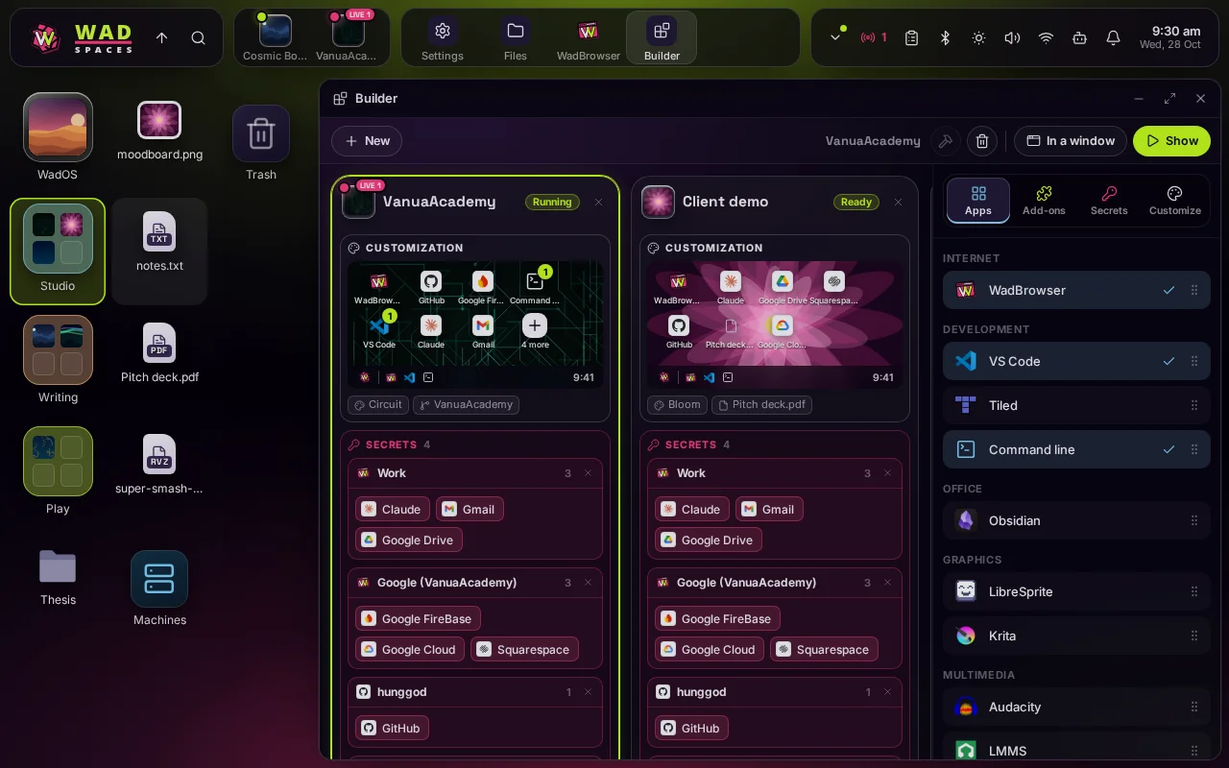
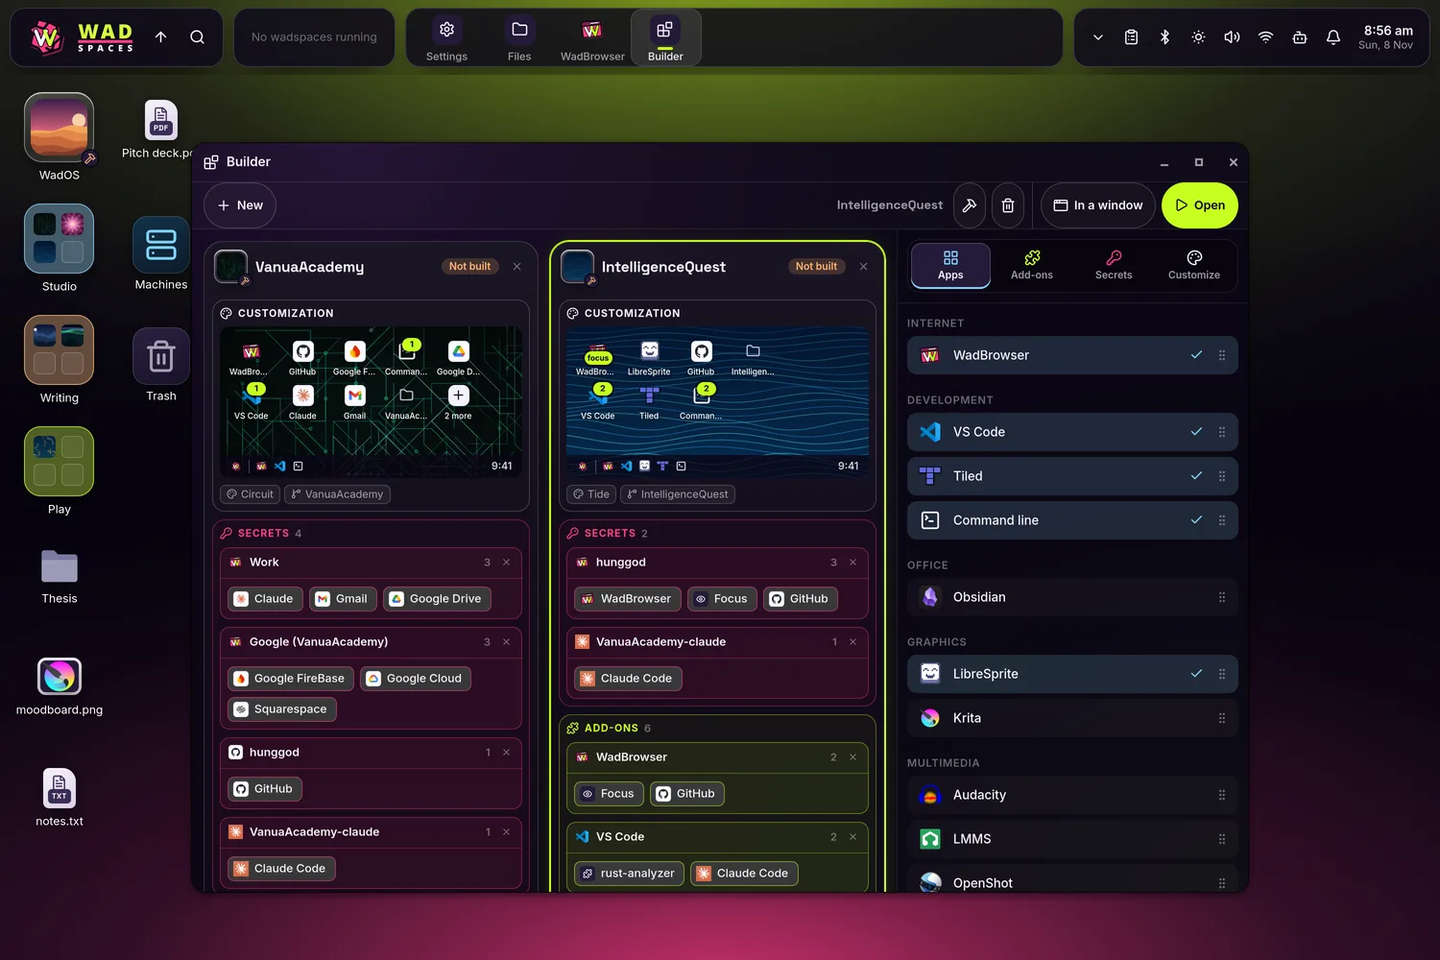
Phase 12: the site, as WadSpaces is now
The landing page's copy follows what's built through phase 11: the
Builder's Apps, Add-ons, Secrets and Customize (no more templates and
layers), Super+Tab and Alt+Space, a desktop on every display, focus,
peers and Taildrive, updates, agents in their own wadspace, private and
public streams at <machine>.wadspaces.com/ws-…/, and Play together.
WadNotes, Super+1…9, the Drives folder and handing devices to a
wadspace (not built) are gone. The Android app is said to be coming.

Screenshots are the real shell's (apps/wados-shell/dev/try.sh, on the
sample library): the launcher, the desktop and the Builder.

diff --git a/site/src/Landing.tsx b/site/src/Landing.tsx
@@ -1,21 +1,27 @@
-// wadspaces.com: what WadSpaces is. No sign-in here; streams have links of
-// their own (https://ws-<id>.wadspaces.com, served by the machine streaming
-// them through its Cloudflare tunnel, not by this site).
+// wadspaces.com: what WadSpaces is. No sign-in here. Streams have links of
+// their own (https://<machine>.wadspaces.com/ws-<guid>/), served by the
+// machine streaming them through its Cloudflare tunnel, not by this site.
 import { motion } from "motion/react";
 import {
   Bluetooth,
+  Bot,
+  Eye,
   FolderGit2,
+  Gamepad2,
   Globe,
-  HardDrive,
-  KeyRound,
   Keyboard,
-  Layers,
   Link2,
+  ListChecks,
   MonitorSmartphone,
-  NotebookPen,
+  Monitor,
+  Network,
+  Package,
   Radio,
+  RotateCcw,
+  ShieldCheck,
+  Smartphone,
   Timer,
-  Usb,
+  Users,
   WandSparkles,
   type LucideIcon,
 } from "lucide-react";
@@ -25,7 +31,7 @@ import { Logo, LogoMark } from "./components/Logo";
 function Shot({ name, alt }: { name: string; alt: string }) {
   return (
     <div className="overflow-hidden rounded-2xl shadow-deep ring-1 ring-line-strong">
-      <img src={`/shots/${name}.webp`} alt={alt} className="block w-full" loading="lazy" width={1280} height={800} />
+      <img src={`/shots/${name}.webp`} alt={alt} className="block w-full" loading="lazy" width={1500} height={1000} />
     </div>
   );
 }
@@ -44,6 +50,16 @@ function Point({ icon: Icon, title, children }: { icon: LucideIcon; title: strin
   );
 }
 
+function Card({ icon: Icon, title, children }: { icon: LucideIcon; title: string; children: React.ReactNode }) {
+  return (
+    <div className="rounded-3xl bg-surface p-6 ring-1 ring-line">
+      <Icon className="size-5 text-accent" />
+      <h3 className="mt-3 font-display text-lg font-semibold">{title}</h3>
+      <p className="mt-2 text-sm text-muted">{children}</p>
+    </div>
+  );
+}
+
 function Section({ id, eyebrow, title, lead, children }: { id: string; eyebrow: string; title: string; lead: string; children: React.ReactNode }) {
   return (
     <section id={id} aria-labelledby={`${id}-title`} className="mx-auto w-full max-w-6xl px-4 py-16 sm:px-6 sm:py-24">
@@ -57,26 +73,31 @@ function Section({ id, eyebrow, title, lead, children }: { id: string; eyebrow: 
   );
 }
 
-/** The three layers a wadspace is made of, in the Builder's colours. */
-const LAYERS = [
+/** What a wadspace is made of: the Builder's four tabs, in its colours. */
+const PARTS = [
   {
-    name: "Template",
-    color: "var(--layer-template)",
-    text: "Its apps: VS Code, Krita, Obsidian, Steam, a browser for each web app. One template can build on another.",
+    name: "Apps",
+    color: "var(--part-app)",
+    text: "VS Code, Krita, Obsidian, Steam, Dolphin and more, and WadBrowser for your web apps.",
   },
   {
-    name: "Extensions",
-    color: "var(--layer-extensions)",
-    text: "What it adds: tools, VS Code extensions, web apps, and what opens when it starts.",
+    name: "Add-ons",
+    color: "var(--part-ext)",
+    text: "What extends an app: VS Code extensions, tools like Rust, Python or Node, and Claude Code.",
   },
   {
-    name: "Customization",
-    color: "var(--layer-customization)",
-    text: "What makes it yours: its name, background, projects and keys. It's handed over when it starts, so it never needs building.",
+    name: "Secrets",
+    color: "var(--part-key)",
+    text: "Your sign-ins, kept as keys. Sign in to GitHub or Gmail once, and every wadspace with that key is signed in.",
+  },
+  {
+    name: "Customize",
+    color: "var(--part-look)",
+    text: "Its name, tag, background and projects. Changing them never needs a rebuild.",
   },
 ];
 
-/** Apps a template can have (the Builder's catalog has more). */
+/** Apps a wadspace can have (the Builder's catalog has more). */
 const APPS = [
   ["vscode", "VS Code"],
   ["obsidian", "Obsidian"],
@@ -91,25 +112,25 @@ const APPS = [
   ["dolphin", "Dolphin"],
 ];
 
-/** What a stream's link looks like, made up (nothing here is a real one). */
+/** What a public stream's share looks like, made up (nothing here is a real one). */
 function StreamCard() {
   return (
     <div className="ws-glass rounded-3xl p-5 shadow-deep ring-1 ring-line-strong sm:p-6">
       <div className="flex items-center gap-2 text-sm text-muted">
         <span className="size-2 rounded-full bg-accent shadow-glow" />
-        Streaming: 1 watching
+        Public link · 1 watching
       </div>
       <div className="mt-4 space-y-2 font-mono text-sm">
         <div className="flex items-center gap-3 rounded-xl bg-surface-2 px-3 py-2.5 ring-1 ring-line">
           <Link2 className="size-4 shrink-0 text-muted" />
-          <span className="truncate">https://ws-…….wadspaces.com</span>
+          <span className="truncate">https://studio.wadspaces.com/ws-……/</span>
         </div>
         <div className="flex items-center gap-3 rounded-xl bg-surface-2 px-3 py-2.5 ring-1 ring-line">
-          <KeyRound className="size-4 shrink-0 text-muted" />
-          <span className="truncate">a username and a password</span>
+          <Users className="size-4 shrink-0 text-muted" />
+          <span className="truncate">a user and a password</span>
         </div>
       </div>
-      <p className="mt-4 text-xs text-faint">A new link and login each time. It ends when nobody's watching.</p>
+      <p className="mt-4 text-xs text-faint">A new link each time, with a QR code. It ends when nobody's watching.</p>
     </div>
   );
 }
@@ -142,6 +163,9 @@ export default function Landing() {
           <a href="#machine" className="hidden rounded-lg px-3 py-2 text-muted hover:text-fg sm:block">
             The machine
           </a>
+          <a href="#agents" className="hidden rounded-lg px-3 py-2 text-muted hover:text-fg sm:block">
+            Agents
+          </a>
           <a href="#streams" className="hidden rounded-lg px-3 py-2 text-muted hover:text-fg sm:block">
             Streams
           </a>
@@ -157,7 +181,7 @@ export default function Landing() {
             </h1>
             <p className="mx-auto mt-5 max-w-2xl text-base text-muted sm:text-lg">
               WadSpaces is a computer that boots into desktops you design: a wadspace for each thing you do, with its own apps, files and
-              sign-ins. Build them from layers, run them on your own hardware, and stream one to any browser when you're away from it.
+              sign-ins. Run them on your own machines, switch between them in a keystroke, and stream one to any browser.
             </p>
             <div className="mt-8 flex flex-wrap items-center justify-center gap-3">
               <a href="#wadspaces" className="inline-flex h-11 items-center gap-2 rounded-xl bg-accent px-5 text-sm font-semibold text-accent-fg shadow-glow">
@@ -169,7 +193,7 @@ export default function Landing() {
             </div>
           </motion.div>
           <div className="mx-auto mt-14 max-w-5xl">
-            <Shot name="launcher" alt="The launcher: your wadspaces as cards, what's running first, the bar along the bottom" />
+            <Shot name="launcher" alt="The launcher: wadspaces as cards in tabs, with the bar along the bottom" />
           </div>
         </section>
 
@@ -177,34 +201,34 @@ export default function Landing() {
           id="wadspaces"
           eyebrow="Wadspaces"
           title="A desktop for each thing you do."
-          lead="A wadspace is a whole desktop made of layers. Shared layers are built once and reused, so a new wadspace on an old template is ready in seconds."
+          lead="A wadspace is a whole desktop with its own apps, add-ons, sign-ins and look. Design it in the Builder, and your machine builds it from ready-made packages, so a new one is ready in minutes."
         >
-          <div className="grid gap-4 md:grid-cols-3">
-            {LAYERS.map((l) => (
-              <div key={l.name} className="rounded-3xl bg-surface p-6 ring-1 ring-line">
+          <div className="grid gap-4 sm:grid-cols-2 lg:grid-cols-4">
+            {PARTS.map((p) => (
+              <div key={p.name} className="rounded-3xl bg-surface p-6 ring-1 ring-line">
                 <div className="flex items-center gap-2.5">
-                  <span className="size-3 rounded-full" style={{ background: l.color }} />
-                  <h3 className="font-display text-lg font-semibold">{l.name}</h3>
+                  <span className="size-3 rounded-full" style={{ background: p.color }} />
+                  <h3 className="font-display text-lg font-semibold">{p.name}</h3>
                 </div>
-                <p className="mt-3 text-sm text-muted">{l.text}</p>
+                <p className="mt-3 text-sm text-muted">{p.text}</p>
               </div>
             ))}
           </div>
           <div className="mt-10 grid items-center gap-10 lg:grid-cols-[1fr_1.3fr]">
             <div className="space-y-6">
               <Point icon={WandSparkles} title="Design it in the Builder">
-                Stack a template, Extensions and a Customization, and see the desktop you'll get before it's built.
+                Each wadspace is a stack: drag an app, a key or a whole section from one to another, and see its desktop before it's built.
               </Point>
-              <Point icon={Layers} title="Built on the machine">
-                Each layer is its own image, built on the machine where it runs, and shared by every wadspace on it.
+              <Point icon={Package} title="Built from shared packages">
+                Apps and tools come ready-made and are shared by every wadspace on the machine, so they download once.
               </Point>
-              <Point icon={KeyRound} title="Sign in once">
-                Saved sign-ins (GitHub, VS Code, your web apps) are shared by every wadspace that uses them.
+              <Point icon={FolderGit2} title="Your projects come along">
+                A GitHub repository is cloned in, a folder is opened in place, and a file is copied. Another of your machines' folders works too.
               </Point>
             </div>
-            <Shot name="builder" alt="The Builder: each wadspace a stack of its customization, secrets, add-ons and apps" />
+            <Shot name="builder" alt="The Builder: two wadspaces as stacks of their customization, secrets, add-ons and apps, with the apps beside them" />
           </div>
-          <ul className="mt-12 flex flex-wrap items-center gap-3" aria-label="Some of the apps a template can have">
+          <ul className="mt-12 flex flex-wrap items-center gap-3" aria-label="Some of the apps a wadspace can have">
             {APPS.map(([id, name]) => (
               <li key={id} className="flex items-center gap-2 rounded-full bg-surface py-1.5 pl-1.5 pr-3.5 text-sm ring-1 ring-line">
                 <img src={`/apps/${id}/icon.png`} alt="" className="size-6 rounded-md" loading="lazy" />
@@ -222,50 +246,54 @@ export default function Landing() {
           id="machine"
           eyebrow="The machine"
           title="It boots straight into your wadspaces."
-          lead="A WadSpaces machine is a laptop or desktop running the WadSpaces OS. Open several wadspaces at once and switch between them like apps."
+          lead="WadOS is the system underneath: installed from a USB stick onto an encrypted disk, and kept up to date as one image. Open several wadspaces at once, and move between them like apps."
         >
           <div className="grid items-center gap-10 lg:grid-cols-[1.3fr_1fr]">
-            <Shot name="desktop" alt="The desktop: wadspaces as glass tiles, a folder per tag, and the bar along the top" />
+            <Shot name="desktop" alt="The desktop: wadspaces and files as icons, a folder per tag, and the bar along the top" />
             <div className="space-y-6">
-              <Point icon={Keyboard} title="Super+Tab between them">
-                Every wadspace runs full screen. Super+Tab and Super+1…9 switch, and the bar above has Wi-Fi, sound and power.
+              <Point icon={Keyboard} title="Super+Tab and Alt+Space">
+                Super+Tab switches between what's running. Alt+Space finds any wadspace or app by name.
+              </Point>
+              <Point icon={Monitor} title="Every screen a desktop">
+                Scroll down from your wadspaces to the desktop. Each display has one of its own, and a wadspace can go full screen on any of them.
               </Point>
               <Point icon={Timer} title="Focus mode">
-                Pick what you're working on and for how long. Until the time's up, only those can come on screen.
-              </Point>
-              <Point icon={NotebookPen} title="WadNotes">
-                Notes, tasks and reminders for each wadspace, and a calendar they all share.
+                Pick a wadspace and how long. Until the time's up, nothing else can come on screen.
               </Point>
               <Point icon={Globe} title="WadBrowser">
-                Its own browser, where each web app gets a window of its own.
+                Its own browser, with ads and trackers blocked. Any page can become an app with a window of its own.
               </Point>
             </div>
           </div>
           <div className="mt-14 grid gap-4 md:grid-cols-3">
-            <div className="rounded-3xl bg-surface p-6 ring-1 ring-line">
-              <FolderGit2 className="size-5 text-accent" />
-              <h3 className="mt-3 font-display text-lg font-semibold">Your projects come along</h3>
-              <p className="mt-2 text-sm text-muted">
-                GitHub repositories are cloned into each wadspace that uses them. Folders on the machine can be copied in, or mounted.
-              </p>
-            </div>
-            <div className="rounded-3xl bg-surface p-6 ring-1 ring-line">
-              <Usb className="size-5 text-accent" />
-              <h3 className="mt-3 font-display text-lg font-semibold">Devices go where they're needed</h3>
-              <p className="mt-2 text-sm text-muted">
-                Plug in a gamepad, webcam or security key and hand it to a wadspace. It remembers next time.
-              </p>
-            </div>
-            <div className="rounded-3xl bg-surface p-6 ring-1 ring-line">
-              <div className="flex gap-2 text-accent">
-                <HardDrive className="size-5" />
-                <Bluetooth className="size-5" />
-              </div>
-              <h3 className="mt-3 font-display text-lg font-semibold">Drives and Bluetooth</h3>
-              <p className="mt-2 text-sm text-muted">
-                USB drives show up in a wadspace's Drives folder and eject safely. Headphones and pads pair from the bar.
-              </p>
-            </div>
+            <Card icon={Network} title="Your machines, together">
+              Machines on your tailnet find each other. Browse another's files, copy its wadspaces over, or stream one from it.
+            </Card>
+            <Card icon={RotateCcw} title="Updates you can undo">
+              WadOS downloads an update in the background. Restart into it when you're ready, or go back to the one before.
+            </Card>
+            <Card icon={Bluetooth} title="Everything in the bar">
+              Wi-Fi, Bluetooth, sound and brightness are a click away, with your notifications and what's running.
+            </Card>
+          </div>
+        </Section>
+
+        <Section
+          id="agents"
+          eyebrow="Agents"
+          title="Agents with a wadspace of their own."
+          lead="Give Claude Code a job in a wadspace. It works there on your project, not on your machine, and you watch what it builds as it goes."
+        >
+          <div className="grid gap-4 md:grid-cols-3">
+            <Card icon={Bot} title="Runs where your project is">
+              The agent works inside the wadspace, with its apps and keys. Your machine and your other wadspaces are out of its reach.
+            </Card>
+            <Card icon={Eye} title="A sandbox to try it in">
+              When it has something to show, it opens a throwaway wadspace beside its checklist, so you can try the build before you trust it.
+            </Card>
+            <Card icon={ListChecks} title="Nothing ships by itself">
+              It asks before it pushes or opens a pull request. The Agents app shows every job, what it's doing, and what's waiting for you.
+            </Card>
           </div>
         </Section>
 
@@ -273,18 +301,21 @@ export default function Landing() {
           id="streams"
           eyebrow="Streams"
           title="Stream a wadspace to any browser."
-          lead="Away from the machine? Stream a wadspace to a phone, a laptop or a friend's screen. The machine needs no open port: streams go out through a secure tunnel."
+          lead="Away from the machine? Stream a wadspace to a phone, a laptop or a friend's screen. Nothing to install, and no open port on the machine."
         >
           <div className="grid items-center gap-10 lg:grid-cols-2">
             <div className="space-y-6">
-              <Point icon={Radio} title="One button">
-                Stream it from the launcher or from Home. The wadspace moves off the machine's screen and onto the stream.
+              <Point icon={ShieldCheck} title="Private, over your tailnet">
+                Only your own devices can reach a private stream. It never leaves your network.
               </Point>
-              <Point icon={Link2} title="A private link and its own login">
-                Every stream gets a new link and a username and password to hand on with it. Nobody gets in without both.
+              <Point icon={Link2} title="Or a public link">
+                At your machine's own address, through its tunnel. Open it in one tap, or sign in with the user and password that come with it.
+              </Point>
+              <Point icon={Gamepad2} title="Play together">
+                Stream a game with up to four players, each with a link and a gamepad of their own.
               </Point>
               <Point icon={MonitorSmartphone} title="Any browser">
-                Nothing to install: open the link, sign in, and the desktop is there, keyboard, mouse, touch and sound.
+                Keyboard, mouse, touch and sound. Open it on the machine again and the stream ends, so the person there always comes first.
               </Point>
             </div>
             <StreamCard />
@@ -292,10 +323,14 @@ export default function Landing() {
           <div id="stream-link" className="mt-14 rounded-3xl bg-accent-soft p-6 ring-1 ring-line-strong sm:p-8">
             <h3 className="font-display text-xl font-semibold sm:text-2xl">Got a stream link?</h3>
             <p className="mt-2 max-w-3xl text-muted">
-              Just open it: it looks like <span className="font-mono text-fg">https://ws-…….wadspaces.com</span>. Your browser asks for
-              the username and password you were sent with it. If the link says it's not found, that stream has ended: ask for a new one.
+              Just open it. It looks like <span className="font-mono text-fg">https://&lt;machine&gt;.wadspaces.com/ws-……/</span>. A one-tap
+              link signs you straight in; otherwise, sign in with the user and password you were sent. If it says the link has expired, the
+              stream has ended: ask for a new one.
             </p>
           </div>
+          <p className="mt-6 flex items-center gap-2 text-sm text-faint">
+            <Smartphone className="size-4" /> An Android app for your machines and their streams is on its way.
+          </p>
         </Section>
       </main>
 

diff --git a/site/index.html b/site/index.html
@@ -5,7 +5,7 @@
     <meta name="viewport" content="width=device-width, initial-scale=1.0" />
     <link rel="icon" href="/favicon.svg" type="image/svg+xml" />
     <title>WadSpaces: your workspaces, on your machines</title>
-    <meta name="description" content="WadSpaces is a computer that boots into desktops you design: a wadspace for each thing you do, built from layers, run on your own hardware, and streamed to any browser." />
+    <meta name="description" content="WadSpaces is a computer that boots into desktops you design: a wadspace for each thing you do, with its own apps, files and sign-ins, run on your own machines and streamed to any browser." />
     <meta property="og:title" content="WadSpaces" />
     <meta property="og:description" content="Your workspaces, on your machines: desktops you design, run on your own hardware, streamed to any browser." />
     <meta property="og:type" content="website" />

diff --git a/site/src/styles/globals.css b/site/src/styles/globals.css
@@ -25,11 +25,12 @@
   color-scheme: dark;
 }
 
-/* The Builder's layers: templates ice, Extensions acid, Customization pink. */
+/* The Builder's tabs, in the machine's colours: apps ice, add-ons acid, secrets pink. */
 :root {
-  --layer-template: #7fd3ff;
-  --layer-extensions: #c6ff1f;
-  --layer-customization: #ff3d81;
+  --part-app: #7fd3ff;
+  --part-ext: #c6ff1f;
+  --part-key: #ff3d81;
+  --part-look: #f5f2fa;
 }
 
 /* Bundled with the page (@fontsource, imported in main.tsx). */

diff --git a/README.md b/README.md
@@ -2,7 +2,7 @@
 
 The software that runs a WadSpaces machine: a Fedora 44 bootc computer that boots into desktops you design. Each wadspace is a container with its own apps, files and sign-ins, and you run it full screen, in a window, or streamed to another device. v2 rebuilds the `wadspaces-v2-spike` design for real: the launcher and the desktop, the Builder, streams and the phone remote.
 
-**Status: phase 11.** wadd builds and runs wadspaces. The shell runs on it: the launcher, the desktop, the bar and its tray, Super+Tab, Alt+Space, toasts with Undo, the reveal bar, the other displays' bars, and the Builder. The host image (Fedora 44 bootc, our labwc, greetd into the shell, wadd as root) boots in a VM to the lock screen, unlocks, and runs a wadspace with sound (`tools/vm.sh check`). WadBrowser, our fork of Cactus, is on the machine and in every wadspace: tabs, Focus and web apps in windows of their own, profiles that keep their cookies, saved sign-ins by site, a compiled ad blocker, and sign-in windows for GitHub and Tailscale (`docs/decisions/0004`). It signs in to GitHub (device flow) and Tailscale, knows your other machines and the devices you trust, copies a wadspace from another machine, keeps folders, files and repositories in a wadspace, and browses another machine's home over Taildrive, with Settings ▸ Accounts and Files ▸ Machines (`docs/decisions/0005`). A wadspace streams to any browser through its own Selkies 2.2 sidecar: privately over the tailnet, publicly at the machine's address through its Cloudflare tunnel, or securely in a libkrun micro-VM, with a one-tap link and a share sheet (`docs/decisions/0006`). Settings has every panel (displays with a 15 s trial, sound, power, Wi-Fi, Bluetooth, updates through bootc, storage), Files has its places, the Trash, Open with and viewers, and there's a notifications centre (`docs/decisions/0007`). A stick boots to WadSpaces Live and installs onto a disk, encrypted with a password typed at each start, and sets up the machine's public address; the first sign-in opens Set up WadSpaces (`docs/decisions/0008`). Focus holds a wadspace on the screen for a time you set, wadspaces open on any display, server mode leaves only streams running, Play together gives up to four players a gamepad each,, Dolphin plays discs kept on the machine, and Steam signs in with its own client, though that hasn't met a real account yet (`docs/decisions/0009`). Claude Code works in a wadspace, messages the desktop over the `wadspaces` MCP server, tries its work with you in a sealed sandbox, and only ships when you say (`docs/decisions/0010`). Next are the site (phase 12) and Android (phase 13).
+**Status: phase 12.** wadd builds and runs wadspaces. The shell runs on it: the launcher, the desktop, the bar and its tray, Super+Tab, Alt+Space, toasts with Undo, the reveal bar, the other displays' bars, and the Builder. The host image (Fedora 44 bootc, our labwc, greetd into the shell, wadd as root) boots in a VM to the lock screen, unlocks, and runs a wadspace with sound (`tools/vm.sh check`). WadBrowser, our fork of Cactus, is on the machine and in every wadspace: tabs, Focus and web apps in windows of their own, profiles that keep their cookies, saved sign-ins by site, a compiled ad blocker, and sign-in windows for GitHub and Tailscale (`docs/decisions/0004`). It signs in to GitHub (device flow) and Tailscale, knows your other machines and the devices you trust, copies a wadspace from another machine, keeps folders, files and repositories in a wadspace, and browses another machine's home over Taildrive, with Settings ▸ Accounts and Files ▸ Machines (`docs/decisions/0005`). A wadspace streams to any browser through its own Selkies 2.2 sidecar: privately over the tailnet, publicly at the machine's address through its Cloudflare tunnel, or securely in a libkrun micro-VM, with a one-tap link and a share sheet (`docs/decisions/0006`). Settings has every panel (displays with a 15 s trial, sound, power, Wi-Fi, Bluetooth, updates through bootc, storage), Files has its places, the Trash, Open with and viewers, and there's a notifications centre (`docs/decisions/0007`). A stick boots to WadSpaces Live and installs onto a disk, encrypted with a password typed at each start, and sets up the machine's public address; the first sign-in opens Set up WadSpaces (`docs/decisions/0008`). Focus holds a wadspace on the screen for a time you set, wadspaces open on any display, server mode leaves only streams running, Play together gives up to four players a gamepad each,, Dolphin plays discs kept on the machine, and Steam signs in with its own client, though that hasn't met a real account yet (`docs/decisions/0009`). Claude Code works in a wadspace, messages the desktop over the `wadspaces` MCP server, tries its work with you in a sealed sandbox, and only ships when you say (`docs/decisions/0010`). Next are the site (phase 12) and Android (phase 13). The site (`site/`, wadspaces.com) says what's built, with the real shell's screenshots.
 
 ## Layout
 
